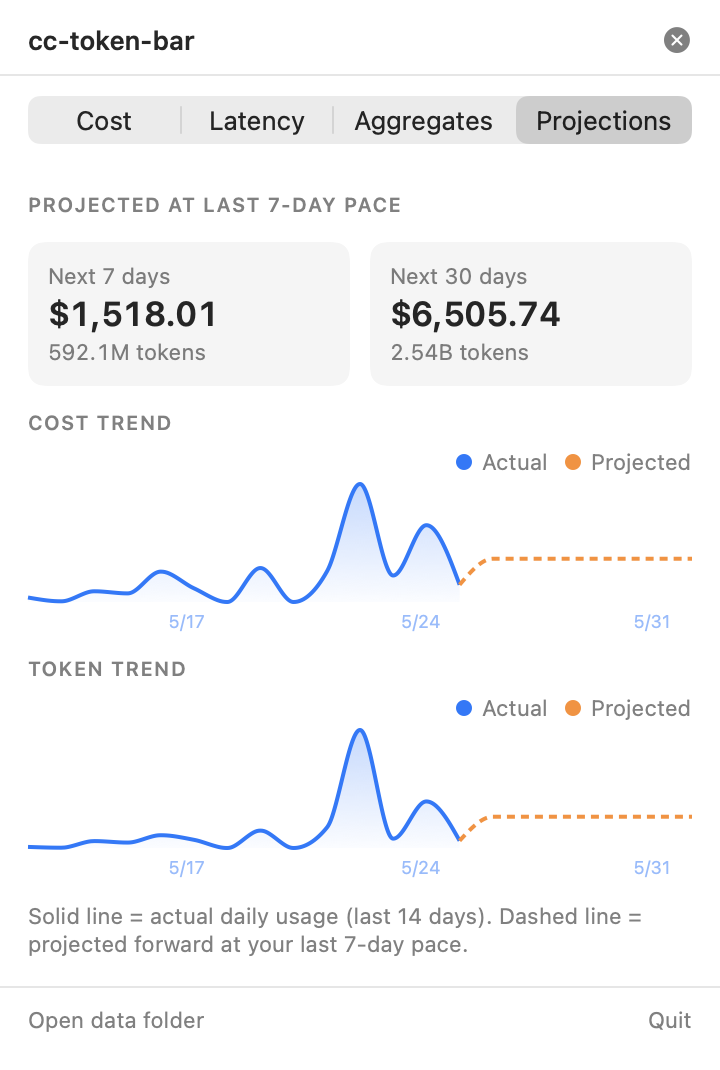
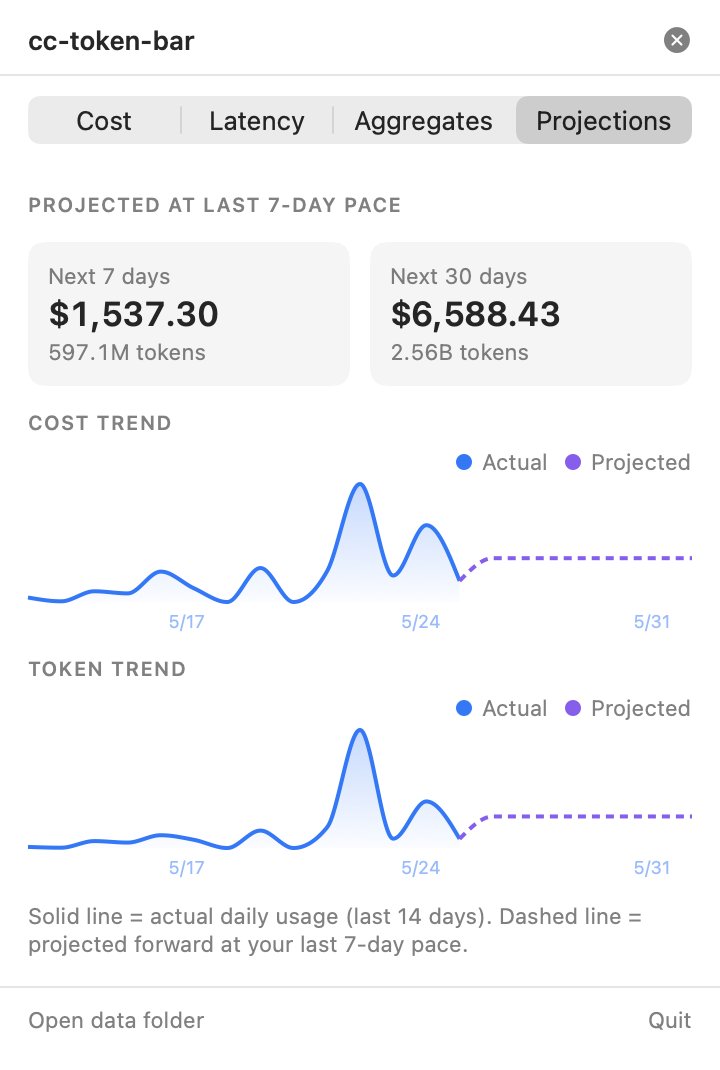
added 2 new tabs - improve

diff --git a/app/Sources/cc-token-bar/Views.swift b/app/Sources/cc-token-bar/Views.swift
@@ -209,36 +209,39 @@ struct PanelView: View {
     }
 
     private var aggregationsSection: some View {
-        VStack(alignment: .leading, spacing: 10) {
-            sectionTitle("Rolling windows — cost · tokens · avg latency")
-            LazyVGrid(columns: [GridItem(.flexible(), spacing: 10),
-                                GridItem(.flexible(), spacing: 10)], spacing: 10) {
-                ForEach(store.agg.periods) { p in periodCard(p) }
-            }
+        let periods = store.agg.periods
+        let maxCost = periods.map(\.costUSD).max() ?? 0
+        let maxTokens = periods.map(\.tokens).max() ?? 0
+        let maxLat = periods.map(\.avgLatencyMs).max() ?? 0
+        return VStack(alignment: .leading, spacing: 12) {
+            metricCard("Cost", rows: periods.map {
+                ($0.label, maxCost > 0 ? $0.costUSD / maxCost : 0, DataStore.formatUSD($0.costUSD))
+            })
+            metricCard("Tokens", rows: periods.map {
+                ($0.label, maxTokens > 0 ? Double($0.tokens) / Double(maxTokens) : 0, DataStore.formatTokens($0.tokens))
+            })
+            metricCard("Avg latency", rows: periods.map {
+                ($0.label, maxLat > 0 ? $0.avgLatencyMs / maxLat : 0,
+                 $0.avgLatencyMs > 0 ? DataStore.formatMs($0.avgLatencyMs) : "—")
+            })
         }
         .padding(14)
     }
 
-    private func periodCard(_ p: PeriodRollup) -> some View {
-        let maxCost = store.agg.periods.map(\.costUSD).max() ?? 0
-        return VStack(alignment: .leading, spacing: 6) {
-            HStack {
-                Text(p.label).font(.system(size: 12, weight: .semibold))
-                Spacer()
-                Text(p.sub).font(.system(size: 9)).foregroundStyle(.secondary)
+    private func metricCard(_ title: String, rows: [(label: String, fraction: Double, value: String)]) -> some View {
+        VStack(alignment: .leading, spacing: 8) {
+            sectionTitle(title)
+            ForEach(rows, id: \.label) { r in
+                HStack(spacing: 10) {
+                    Text(r.label).font(.system(size: 12, weight: .medium))
+                        .frame(width: 46, alignment: .leading)
+                    bar(fraction: r.fraction)
+                    Text(r.value).font(.system(size: 12)).monospacedDigit()
+                        .frame(width: 84, alignment: .trailing)
+                }
             }
-            Text(DataStore.formatUSD(p.costUSD))
-                .font(.system(size: 18, weight: .bold)).monospacedDigit()
-                .foregroundStyle(Color.accentColor)
-            bar(fraction: maxCost > 0 ? p.costUSD / maxCost : 0)
-            HStack(spacing: 6) {
-                Text(DataStore.formatTokens(p.tokens))
-                Text("·").foregroundStyle(.tertiary)
-                Text(p.avgLatencyMs > 0 ? DataStore.formatMs(p.avgLatencyMs) : "—")
-            }
-            .font(.system(size: 11)).foregroundStyle(.secondary).monospacedDigit()
         }
-        .padding(10)
+        .padding(12)
         .frame(maxWidth: .infinity, alignment: .leading)
         .background(.quaternary.opacity(0.4))
         .clipShape(RoundedRectangle(cornerRadius: 8))
@@ -280,7 +283,8 @@ struct PanelView: View {
                     .lineStyle(StrokeStyle(lineWidth: 2, dash: p.projected ? [4, 3] : []))
                     .interpolationMethod(.monotone)
             }
-            .chartForegroundStyleScale(["Actual": Color.accentColor, "Projected": Color.orange])
+            .chartForegroundStyleScale(["Actual": Color.accentColor,
+                                        "Projected": Color(red: 0.55, green: 0.36, blue: 0.96)])
             .chartLegend(position: .top, alignment: .trailing, spacing: 4)
             .chartYAxis(.hidden)
             .chartXAxis {

diff --git a/README.md b/README.md
@@ -6,20 +6,18 @@
 
 A native macOS menu bar app that surfaces Claude Code token usage, cost, and tool-by-tool breakdown — fed by hooks Claude Code already calls into. All data stays local.
 
-```
-                              ┌──────────────────────────────┐
-   ░▒▓ chart.bar.xaxis  cc    │  ← lives here, always tiny    │
-                              └──────────────────────────────┘
-                                              │
-                                              ▼  (click)
-                              ┌──────────────────────────────┐
-                              │  Today · All-time KPIs       │
-                              │  Cache hit ratio (hero #)    │
-                              │  7-day input/output chart    │
-                              │  Tools by cost               │
-                              │  Cost by model               │
-                              └──────────────────────────────┘
-```
+<div align="center">
+<table>
+  <tr>
+    <td align="center"><img src="./screenshot-cost.png" width="260" /><br/><b>Cost</b></td>
+    <td align="center"><img src="./screenshot-latency.png" width="260" /><br/><b>Latency</b></td>
+  </tr>
+  <tr>
+    <td align="center"><img src="./screenshot-aggregates.png" width="260" /><br/><b>Aggregates</b></td>
+    <td align="center"><img src="./screenshot-projections.png" width="260" /><br/><b>Projections</b></td>
+  </tr>
+</table>
+</div>
 
 ## What it shows
 
@@ -179,11 +177,9 @@ Full design — including data sources, metrics catalog, attribution model, and 
 
 ## Result
 
-The dropdown has four tabs — **Cost**, **Latency**, **Aggregates**, and **Projections** — switched by the segmented control under the title. Every screenshot below runs against real Claude Code data on this machine: 88 sessions, 96.6 % cache hit ratio.
+The dropdown has four tabs — **Cost**, **Latency**, **Aggregates**, and **Projections** — switched by the segmented control under the title (see the four screenshots at the top of this README). All of them run against real Claude Code data on this machine: 88 sessions, 96.6 % cache hit ratio.
 
 ### Cost tab
-
-![cc-token-bar Cost tab](./screenshot-cost.png)
 
 The default view — where your tokens and dollars go. Top to bottom:
 
@@ -195,8 +191,6 @@ The default view — where your tokens and dollars go. Top to bottom:
 
 ### Latency tab
 
-![cc-token-bar Latency tab](./screenshot-latency.png)
-
 The same tools, re-ranked by **average wall-clock time per call** instead of by cost — answering "what's making me wait" rather than "what's burning tokens":
 
 - **Tool latency (avg per call)** — each row: tool name, gradient bar normalized to the slowest tool, average duration, invocation count. Durations auto-format across units (`439.59s`, `590 ms`, `428 ms`) from the elapsed time the hook records between a tool firing and its `PostToolUse` event.
@@ -204,22 +198,19 @@ The same tools, re-ranked by **average wall-clock time per call** instead of by 
 
 ### Aggregates tab
 
-![cc-token-bar Aggregates tab](./screenshot-aggregates.png)
+The same cost, token, and latency numbers — but rolled up over **rolling trailing windows**, one card **per metric**:
 
-The same cost, token, and latency numbers — but rolled up over **rolling trailing windows**, as a 2×2 card grid:
-
-- One card per window: **Day** = last 24h, **Week** = last 7 days, **Month** = last 30 days, **Year** = last 365 days. These are rolling windows, not calendar periods — "Week" always means the trailing seven days, with no Monday reset.
-- Each card leads with that window's **cost** (large, in accent blue), a **gradient bar** showing its cost as a fraction of the largest window, and a sub-line with **total tokens** and **average tool latency**. A session counts toward a window when its last activity falls inside it; the windows nest, so a session three days old contributes to Week, Month, and Year but not Day.
-- In the shot above Month and Year are identical (`$1,973.80`, `716.7M`, `3.66s` — both bars full) because this machine's tracked history is younger than 30 days — there are no sessions older than a month yet, so both windows capture the same set. That's the honest readout, not a placeholder.
+- Three cards — **Cost**, **Tokens**, **Avg latency** — each with a row for every window: **Day** = last 24h, **Week** = last 7 days, **Month** = last 30 days, **Year** = last 365 days. These are rolling windows, not calendar periods — "Week" always means the trailing seven days, with no Monday reset.
+- Within a card each row has a **gradient bar** scaled to that card's largest window, so you read the four windows against each other at a glance. A session counts toward a window when its last activity falls inside it; the windows nest, so a session three days old contributes to Week, Month, and Year but not Day.
+- In the shot above Month and Year are identical in every card (`$1,993.09`, `721.7M`, `3.65s`) because this machine's tracked history is younger than 30 days — there are no sessions older than a month yet, so both windows capture the same set. That's the honest readout, not a placeholder.
+- Cost and tokens grow with the window (cumulative), so their bars climb Day → Year; **average latency** doesn't accumulate, so that card is a genuine side-by-side comparison — here recent calls (`1.60s` today) are faster than the longer-run average (`3.65s`).
 
 ### Projections tab
 
-![cc-token-bar Projections tab](./screenshot-projections.png)
-
 A forward-looking run-rate built from **actual recent consumption**, with the trend drawn out as charts:
 
-- Two cards — **Next 7 days** (`$1,518.01` / `592.1M` tokens) and **Next 30 days** (`$6,505.74` / `2.54B` tokens) — each a projected **cost** and **token** count.
-- Two **trend charts**, one for cost and one for tokens. Each plots the **last 14 days of actual daily usage** as a solid blue line with a filled area, then a **dashed orange line** projecting 7 days forward at your current pace. The dashed line connects to the last real point, so you read the past and the projection as one continuous shape.
+- Two cards — **Next 7 days** (`$1,537.30` / `597.1M` tokens) and **Next 30 days** (`$6,588.43` / `2.56B` tokens) — each a projected **cost** and **token** count.
+- Two **trend charts**, one for cost and one for tokens. Each plots the **last 14 days of actual daily usage** as a solid blue line with a filled area, then a **dashed violet line** projecting 7 days forward at your current pace. The dashed line connects to the last real point, so you read the past and the projection as one continuous shape.
 - Everything extrapolates your *last 7 days*: a daily rate (`7-day total ÷ 7`) × 7 for the week and × 30 for the month. It's a current-pace projection, not a calendar forecast — it answers "if I keep working like I did this past week, what will it cost", and it moves as your recent usage moves.
 
 The footer is shared by every tab: `Open data folder` reveals `~/.cc-token-bar/` in Finder so you can inspect the raw JSON; `Quit` exits cleanly (the LaunchAgent will respawn it on next login).

diff --git a/design-doc.md b/design-doc.md
@@ -240,8 +240,8 @@ Beyond "total tokens" and "tools by cost", here's the broader set that's cheap t
 
 - **Cost** *(default, shown on every open)* — the full metric set: Today/All-time KPIs, cache hit ratio, 7-day chart, tools by cost, cost by model.
 - **Latency** — one row per tool, the average wall-clock latency of its calls, sorted slowest first, with a proportional bar and the call count.
-- **Aggregates** — a 2×2 card grid, one card per rolling window (Day = last 24h, Week = last 7d, Month = last 30d, Year = last 365d). Each card leads with the window's total cost (accent colour, large), a gradient bar showing that window's cost as a fraction of the largest window, and a sub-line with total tokens and average tool latency. A session is counted in a window when its `updated_at` falls inside it; the windows are nested, so the same session contributes to every window it is recent enough for. The card grid replaced an earlier flat four-row table — same numbers, more glanceable.
-- **Projections** — two cards (**Next 7 days** / **Next 30 days**) of projected cost and tokens, followed by two Swift Charts: a **cost trend** and a **token trend**. Each chart plots the last 14 days of actual daily usage as a solid accent line with a filled area, then a dashed orange line extending 7 days into the future at the projected daily rate (anchored to the last actual point so the two segments connect). Both the cards and the dashed projection extrapolate the *last 7 days* of actual consumption: a daily rate (`7d total ÷ 7`) multiplied by 7 for the week and 30 for the month. This is a current-pace run-rate, not a calendar forecast — it answers "if I keep going like this week, what will it cost".
+- **Aggregates** — three cards, one **per metric**: Cost, Tokens, and Avg latency. Each card has a row for every rolling window (Day = last 24h, Week = last 7d, Month = last 30d, Year = last 365d) with a gradient bar scaled to that card's largest window plus the value. Splitting by metric (rather than the earlier one-card-per-window grid, which mixed dollars, tokens, and seconds on a single card) keeps each card comparing like with like. A session is counted in a window when its `updated_at` falls inside it; the windows are nested, so the same session contributes to every window it is recent enough for. Cost and tokens are cumulative (bars climb Day → Year); average latency is not, so that card is a true side-by-side comparison.
+- **Projections** — two cards (**Next 7 days** / **Next 30 days**) of projected cost and tokens, followed by two Swift Charts: a **cost trend** and a **token trend**. Each chart plots the last 14 days of actual daily usage as a solid accent line with a filled area, then a dashed violet line extending 7 days into the future at the projected daily rate (anchored to the last actual point so the two segments connect). Both the cards and the dashed projection extrapolate the *last 7 days* of actual consumption: a daily rate (`7d total ÷ 7`) multiplied by 7 for the week and 30 for the month. This is a current-pace run-rate, not a calendar forecast — it answers "if I keep going like this week, what will it cost".
 
 The header, tab control, and footer are shared; only the body between them swaps. The selected tab is local UI state and resets to **Cost** when the app relaunches.
 
@@ -309,26 +309,30 @@ Latency tab body:
 │   Read           ██░░░░░░░   240 ms (1,204×)│
 │   ...                                    │
 
-Aggregates tab body (2×2 card grid):
+Aggregates tab body (one card per metric):
 ├──────────────────────────────────────────┤
-│  Rolling windows — cost · tokens · latency│
-│  ┌ Day    last 24h ┐ ┌ Week  last 7 days ┐│
-│  │ $215.40         │ │ $1,518.01         ││
-│  │ ▓▓░░░░░░░░       │ │ ▓▓▓▓▓▓░░░░         ││
-│  │ 62.1M · 1.63s   │ │ 592.1M · 3.60s    ││
-│  └─────────────────┘ └───────────────────┘│
-│  ┌ Month last 30 days┐ ┌ Year last 365d ┐ │
-│  │ $1,973.80          │ │ $1,973.80      │ │
-│  │ ▓▓▓▓▓▓▓▓▓▓          │ │ ▓▓▓▓▓▓▓▓▓▓      │ │
-│  │ 716.7M · 3.66s     │ │ 716.7M · 3.66s │ │
-│  └────────────────────┘ └────────────────┘ │
+│  COST                                     │
+│   Day    ▓▓░░░░░░░░        $234.70        │
+│   Week   ▓▓▓▓▓▓░░░░      $1,537.30        │
+│   Month  ▓▓▓▓▓▓▓▓▓▓      $1,993.09        │
+│   Year   ▓▓▓▓▓▓▓▓▓▓      $1,993.09        │
+│  TOKENS                                   │
+│   Day    ▓░░░░░░░░░          67.1M        │
+│   Week   ▓▓▓▓▓▓▓░░░         597.1M        │
+│   Month  ▓▓▓▓▓▓▓▓▓▓         721.7M        │
+│   Year   ▓▓▓▓▓▓▓▓▓▓         721.7M        │
+│  AVG LATENCY                              │
+│   Day    ▓▓▓░░░░░░░          1.60s        │
+│   Week   ▓▓▓▓▓▓▓▓▓░          3.58s        │
+│   Month  ▓▓▓▓▓▓▓▓▓▓          3.65s        │
+│   Year   ▓▓▓▓▓▓▓▓▓▓          3.65s        │
 
 Projections tab body:
 ├──────────────────────────────────────────┤
 │  Projected at last 7-day pace            │
 │  ┌ Next 7 days ──┐  ┌ Next 30 days ─┐   │
-│  │ $1,518.01     │  │ $6,505.74     │   │
-│  │ 592.1M tokens │  │ 2.54B tokens  │   │
+│  │ $1,537.30     │  │ $6,588.43     │   │
+│  │ 597.1M tokens │  │ 2.56B tokens  │   │
 │  └───────────────┘  └───────────────┘   │
 │  Cost trend          ● Actual ● Projected│
 │   ╱▔╲      ╱╲                            │